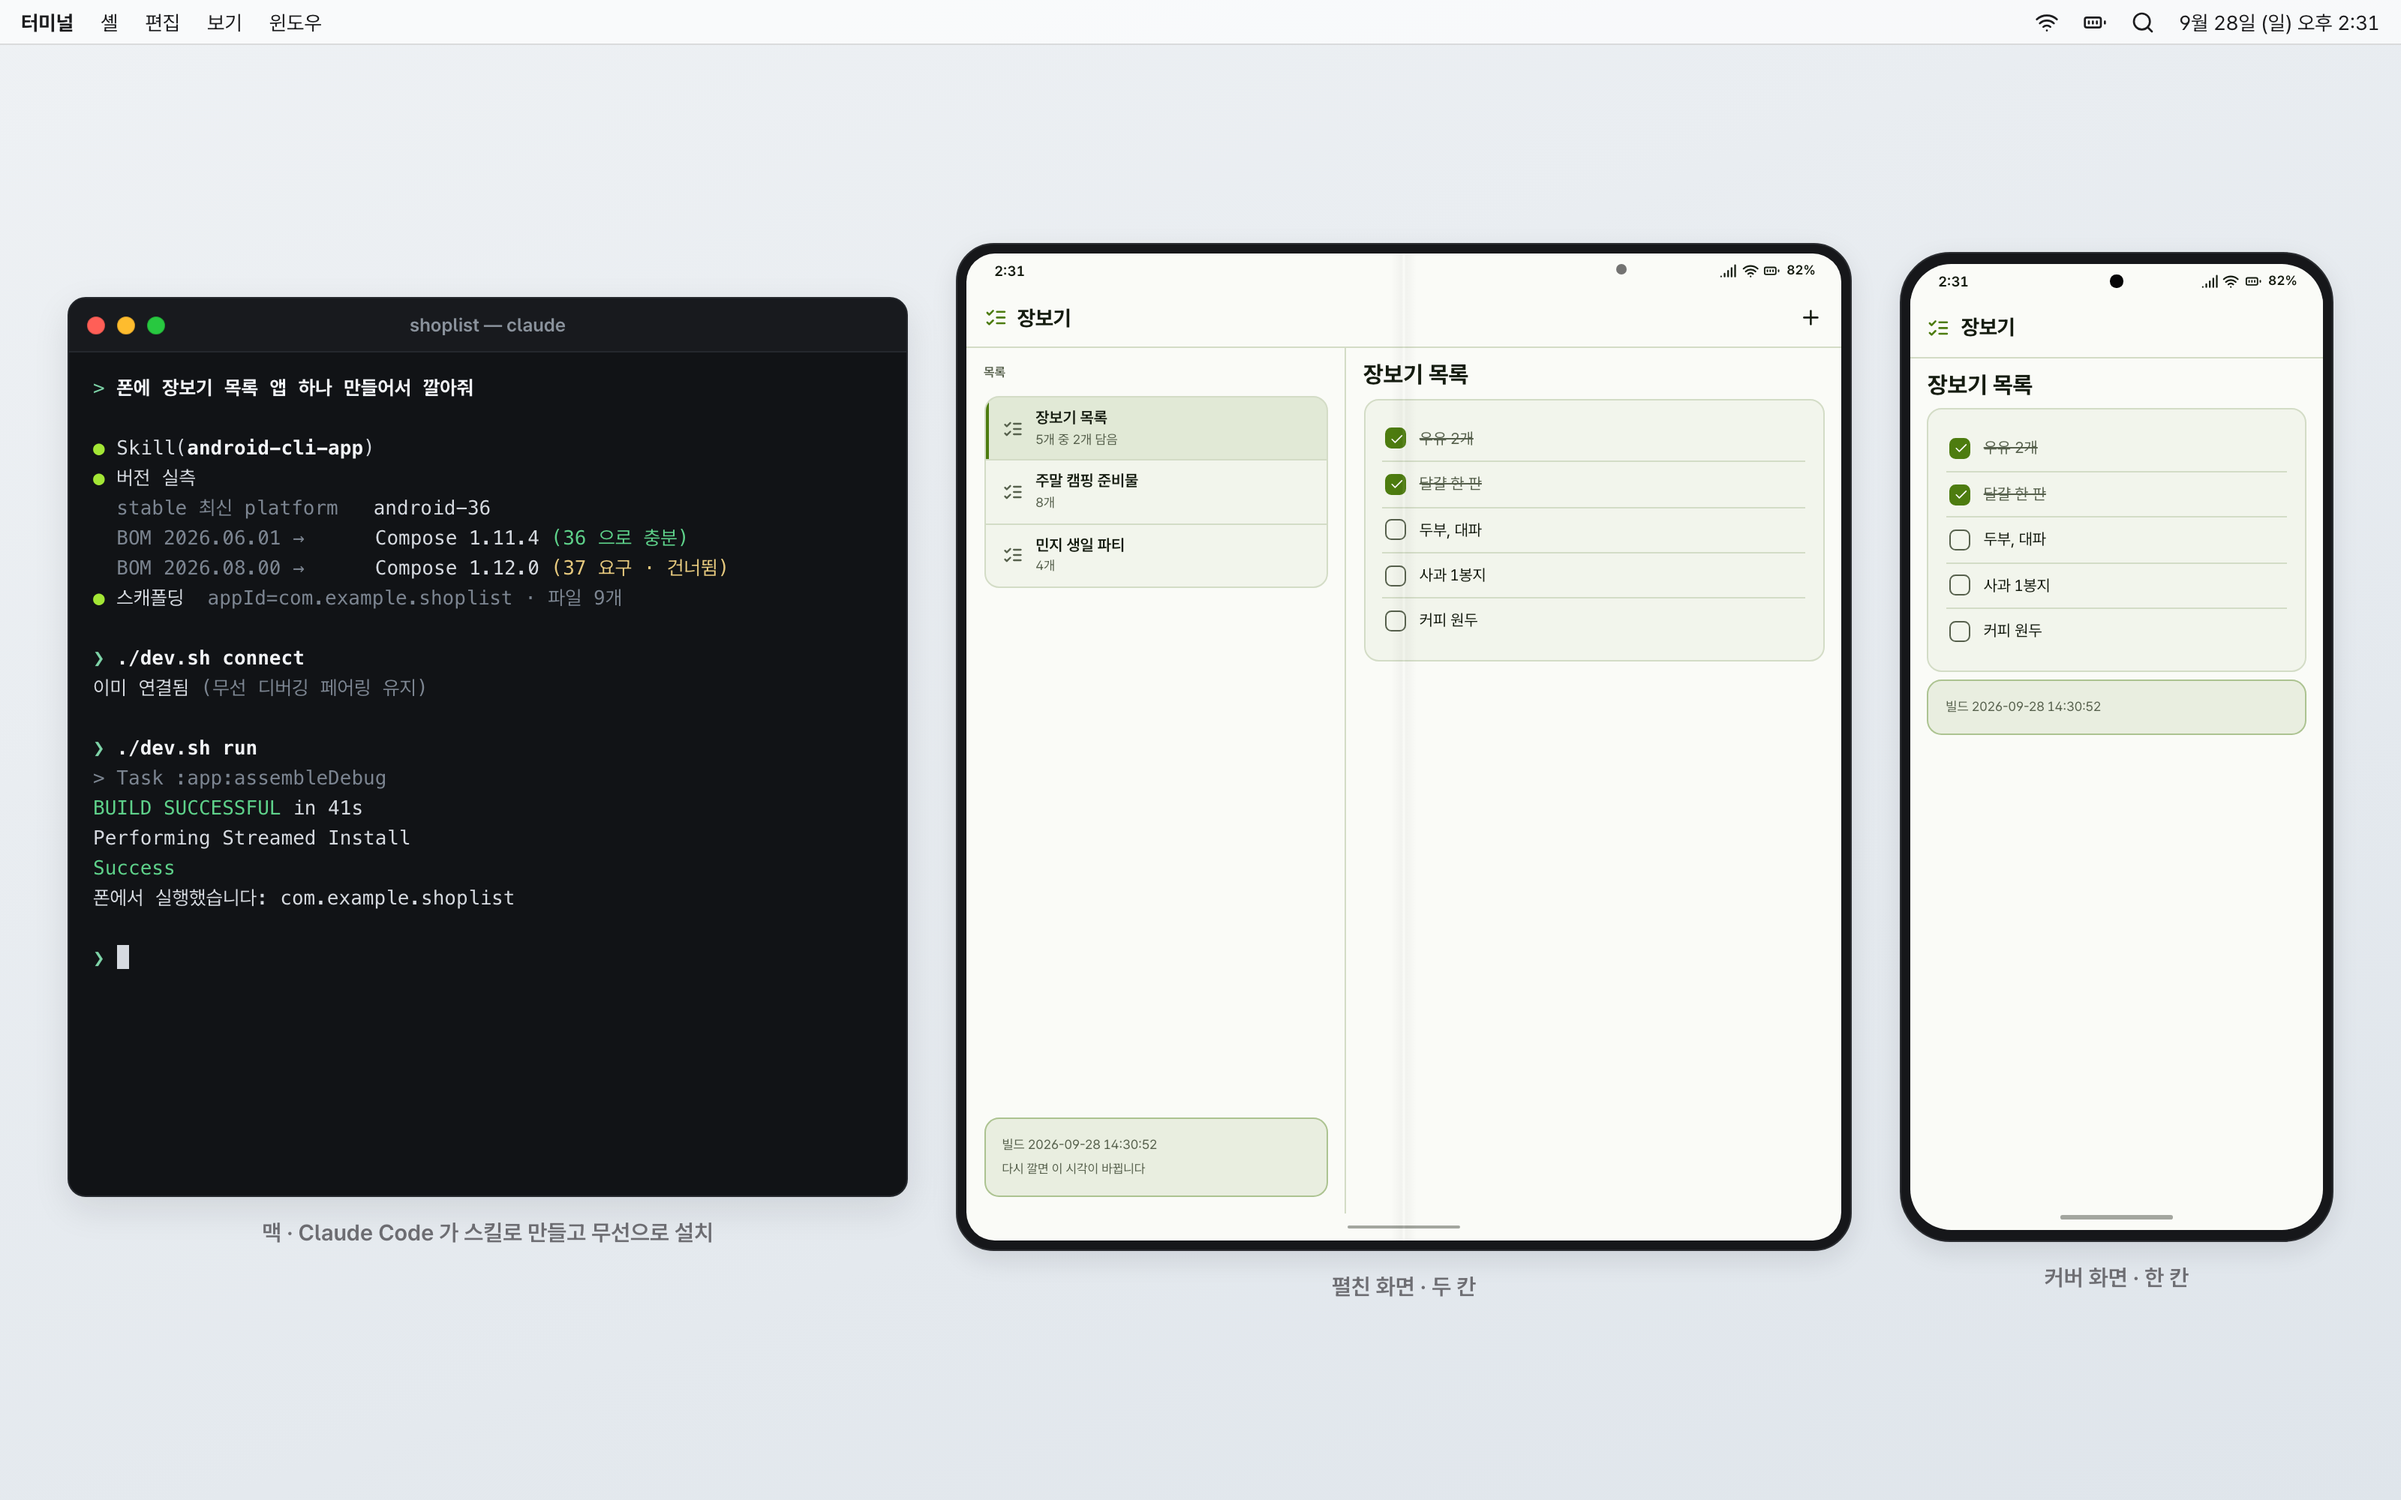
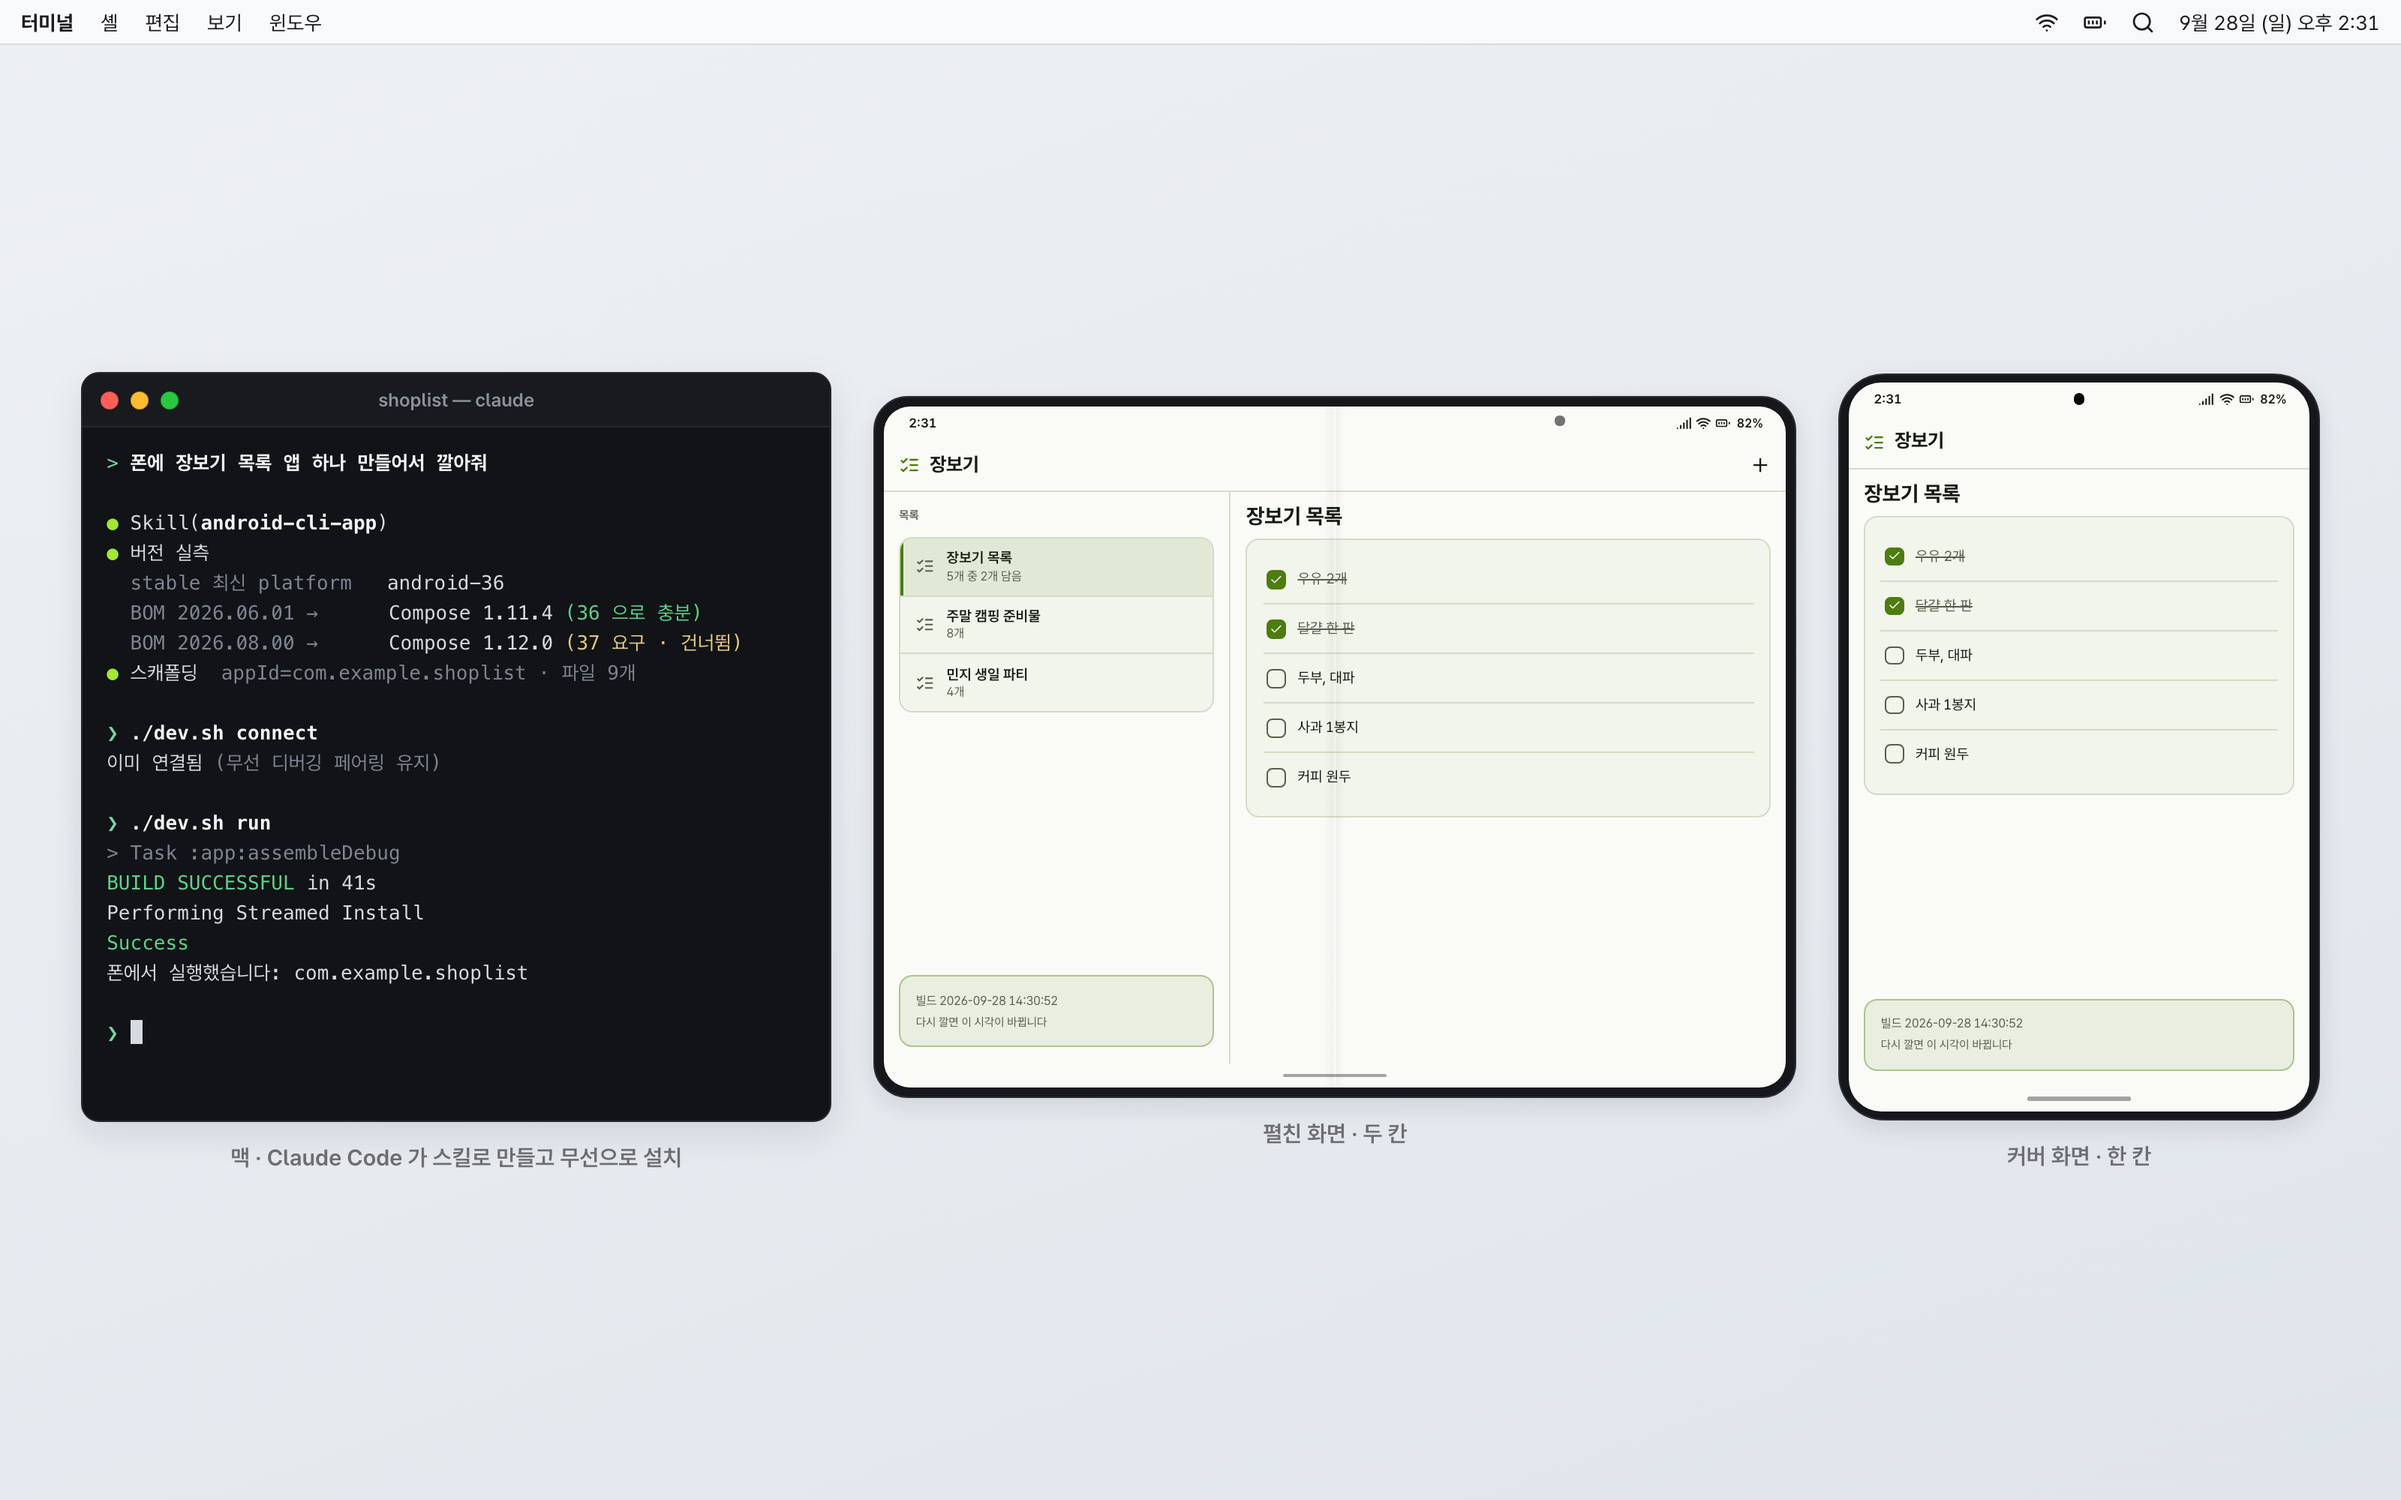
docs: re-render mockups at real Galaxy Z Fold8 ratios

Changed region(s): [[0.0312, 0.155, 0.9688, 0.868]]

diff --git a/docs/mockups/scenes/3-connect-phone.html b/docs/mockups/scenes/3-connect-phone.html
@@ -1,24 +1,24 @@
 <!doctype html>
 <html lang="ko"><head><meta charset="utf-8">
-<meta name="shot" content="w=1297,h=1800,scale=1">
+<meta name="shot" content="w=1137,h=1800,scale=1">
 <title>장면 3 · 폰 커버 화면 — 무선 디버깅 허용</title>
 <link rel="stylesheet" href="https://mockup-kit.invalid/kit.css">
 <script src="https://mockup-kit.invalid/kit.js"></script>
 <style>
-  /* 폴드8 커버 화면 0.72:1 — 360 x 500dp 를 3.6배 */
-  .screen { zoom: 3.6; width: 360px; height: 500px; border-radius: 0; }
+  /* 폴드8 커버 화면 0.63:1 — 400 x 633dp 를 2.8425배 (실기 480 x 758dp 와 같은 비율) */
+  .screen { zoom: 2.8425; width: 400px; height: 633.2px; border-radius: 0; }
   .status-bar { height: 26px; font-size: 13px; padding: 0 18px; }
   .app-bar { height: 50px; gap: 8px; }
   .app-bar .title { font-size: 22px; }
-  .screen > .content { padding: 10px 16px; gap: 10px; }
-  .card.dense { padding: 12px 14px; }
+  .screen > .content { padding: 14px 18px; gap: 12px; }
+  .card.dense { padding: 16px 18px; }
   .toggle-row { min-height: 0; padding: 4px 0; }
-  .label-main { font-size: 18px; line-height: 24px; }
-  .caption { font-size: 15px; line-height: 20px; }
-  .dialog { position: absolute; left: 14px; right: 14px; bottom: 30px; z-index: 50; background: var(--raised); border-radius: 24px; padding: 20px; display: flex; flex-direction: column; gap: 12px; box-shadow: 0 10px 30px rgba(0,0,0,.18); }
-  .dialog .d-title { font-size: 21px; line-height: 28px; font-weight: 700; }
-  .dialog .d-body { font-size: 16px; line-height: 22px; color: var(--dim); }
-  .cb { display: flex; align-items: center; gap: 10px; font-size: 17px; line-height: 23px; }
+  .label-main { font-size: 20px; line-height: 26px; }
+  .caption { font-size: 16px; line-height: 22px; }
+  .dialog { position: absolute; left: 14px; right: 14px; bottom: 34px; z-index: 50; background: var(--raised); border-radius: 24px; padding: 24px; display: flex; flex-direction: column; gap: 14px; box-shadow: 0 10px 30px rgba(0,0,0,.18); }
+  .dialog .d-title { font-size: 23px; line-height: 30px; font-weight: 700; }
+  .dialog .d-body { font-size: 17px; line-height: 24px; color: var(--dim); }
+  .cb { display: flex; align-items: center; gap: 10px; font-size: 18px; line-height: 24px; }
   .cb .box { width: 24px; height: 24px; border-radius: 7px; background: var(--accent); color: var(--on-accent); display: flex; align-items: center; justify-content: center; font-size: 16px; flex: none; }
   .d-actions { display: flex; justify-content: flex-end; gap: 8px; }
   .d-actions .btn { font-size: 18px; height: 44px; padding: 0 20px; }

diff --git a/docs/mockups/hero.html b/docs/mockups/hero.html
@@ -7,10 +7,11 @@
 <link rel="stylesheet" href="https://mockup-kit.invalid/kit.css">
 <script src="https://mockup-kit.invalid/kit.js"></script>
 <style>
-  .layout { position: absolute; top: 30px; left: 0; right: 0; bottom: 0; display: flex; align-items: center; justify-content: center; gap: 32px; }
-  .term-col { width: 560px; }
-  .term-col .terminal { height: 600px; }
-  .check-row { display: flex; align-items: center; gap: 12px; padding: 10px 4px; border-bottom: 1px solid var(--border); font-size: 15px; }
+  .layout { position: absolute; top: 30px; left: 0; right: 0; bottom: 0; display: flex; align-items: center; justify-content: center; gap: 28px; }
+  .term-col { width: 500px; }
+  .term-col .terminal { height: 500px; }
+  .term-col .terminal-body { font-size: 13px; line-height: 20px; }
+  .check-row { display: flex; align-items: center; gap: 12px; padding: 14px 4px; border-bottom: 1px solid var(--border); font-size: 15px; }
   .check-row:last-child { border-bottom: 0; }
   .box { width: 20px; height: 20px; border-radius: 6px; border: 2px solid var(--dim); flex: none; display: flex; align-items: center; justify-content: center; }
   .box.on { background: var(--accent); border-color: var(--accent); color: var(--on-accent); font-size: 14px; }
@@ -63,7 +64,7 @@ Performing Streamed Install
 
     <!-- 폴드 펼침 -->
     <div>
-      <div class="fold-open" style="--zoom:.7">
+      <div class="fold-open" style="--zoom:.64">
         <div class="screen">
           <div class="status-bar" data-time="2:31"></div>
           <div class="app-bar">
@@ -104,7 +105,7 @@ Performing Streamed Install
 
     <!-- 폴드 커버 -->
     <div>
-      <div class="fold-cover" style="--zoom:.7">
+      <div class="fold-cover" style="--zoom:.64">
         <div class="screen">
           <div class="status-bar" data-time="2:31"></div>
           <div class="app-bar">
@@ -120,8 +121,9 @@ Performing Streamed Install
               <div class="check-row"><span class="box"></span><span>사과 1봉지</span></div>
               <div class="check-row"><span class="box"></span><span>커피 원두</span></div>
             </div>
-            <div class="card tint">
+            <div class="card tint build">
               <div class="meta">빌드 2026-09-28 14:30:52</div>
+              <div class="caption">다시 깔면 이 시각이 바뀝니다</div>
             </div>
           </div>
           <div class="nav-handle"></div>

diff --git a/docs/mockups/scenes/2-rebuild-phone.html b/docs/mockups/scenes/2-rebuild-phone.html
@@ -1,26 +1,26 @@
 <!doctype html>
 <html lang="ko"><head><meta charset="utf-8">
-<meta name="shot" content="w=1296,h=1800,scale=1">
+<meta name="shot" content="w=1137,h=1800,scale=1">
 <title>장면 2 · 폰 커버 화면 — 바뀐 빌드 시각</title>
 <link rel="stylesheet" href="https://mockup-kit.invalid/kit.css">
 <script src="https://mockup-kit.invalid/kit.js"></script>
 <style>
-  /* 폴드8 커버 화면 0.72:1 — 360 x 500dp 를 3.6배 */
-  .screen { zoom: 3.6; width: 360px; height: 500px; border-radius: 0; }
+  /* 폴드8 커버 화면 0.63:1 — 400 x 633dp 를 2.8425배 (실기 480 x 758dp 와 같은 비율) */
+  .screen { zoom: 2.8425; width: 400px; height: 633.2px; border-radius: 0; }
   .status-bar { height: 26px; font-size: 13px; padding: 0 18px; }
   .app-bar { height: 50px; gap: 10px; }
   .app-bar .title { font-size: 22px; }
-  .screen > .content { padding: 10px 16px 10px; gap: 12px; }
-  .t-hero { font-size: 24px; line-height: 30px; }
+  .screen > .content { padding: 16px 18px 14px; gap: 16px; }
+  .t-hero { font-size: 28px; line-height: 34px; }
   .card.list { padding: 4px 14px; gap: 0; }
-  .check-row { display: flex; align-items: center; gap: 12px; padding: 10px 2px; border-bottom: 1px solid var(--border); font-size: 21px; line-height: 27px; }
+  .check-row { display: flex; align-items: center; gap: 12px; padding: 16px 2px; border-bottom: 1px solid var(--border); font-size: 23px; line-height: 29px; }
   .check-row:last-child { border-bottom: 0; }
   .box { width: 24px; height: 24px; border-radius: 7px; border: 2px solid var(--dim); flex: none; display: flex; align-items: center; justify-content: center; }
   .box.on { background: var(--accent); border-color: var(--accent); color: var(--on-accent); font-size: 16px; }
   .done { color: var(--dim); text-decoration: line-through; }
-  .build { margin-top: auto; padding: 12px 14px; gap: 2px; }
-  .build .b { font-size: 22px; line-height: 28px; font-weight: 700; color: var(--accent); }
-  .build .s { font-size: 15px; line-height: 20px; color: var(--dim); }
+  .build { margin-top: auto; padding: 16px 18px; gap: 4px; }
+  .build .b { font-size: 26px; line-height: 32px; font-weight: 700; color: var(--accent); }
+  .build .s { font-size: 17px; line-height: 23px; color: var(--dim); }
   .nav-handle { height: 16px; }
 </style></head><body>
 <div class="screen app-cyberdeck">

diff --git a/docs/mockups/thumbnail.html b/docs/mockups/thumbnail.html
@@ -7,15 +7,19 @@
 <link rel="stylesheet" href="https://mockup-kit.invalid/kit.css">
 <script src="https://mockup-kit.invalid/kit.js"></script>
 <style>
-  .layout { position: absolute; inset: 0; display: flex; align-items: center; justify-content: center; gap: 64px; }
+  .layout { position: absolute; inset: 0; display: flex; align-items: center; justify-content: center; gap: 72px; }
   .copy { width: 620px; display: flex; flex-direction: column; gap: 18px; }
   .big { font-size: 56px; line-height: 66px; font-weight: 800; letter-spacing: -1.2px; color: var(--mac-text); }
   .big em { font-style: normal; color: var(--accent); }
   .sub { font-size: 22px; line-height: 32px; color: var(--mac-dim); }
   .copy .terminal { height: 150px; margin-top: 10px; }
   .copy .terminal-body { font-size: 15px; line-height: 23px; }
-  .hello { display: flex; flex-direction: column; gap: 12px; }
-  .hello .t-hero { font-size: 26px; line-height: 32px; }
+  .fold-cover .content { justify-content: center; gap: 14px; padding: 16px 20px 28px; }
+  .hello { display: flex; flex-direction: column; gap: 14px; padding: 32px 28px; }
+  .hello .t-hero { font-size: 44px; line-height: 52px; }
+  .hello .body { font-size: 19px; line-height: 28px; }
+  .hello .meta { font-size: 15px; }
+  .adb .card-title { font-size: 17px; } .adb .meta { font-size: 14px; }
 </style>
 </head>
 <body>
@@ -31,7 +35,7 @@
 폰에서 실행했습니다: com.example.hello</div>
       </div>
     </div>
-    <div class="fold-cover" style="--zoom:.8">
+    <div class="fold-cover" style="--zoom:.86">
       <div class="screen">
         <div class="status-bar" data-time="2:31"></div>
         <div class="app-bar">
@@ -44,7 +48,7 @@
             <div class="body">케이블 없이 설치됐습니다</div>
             <div class="meta">빌드 2026-09-28 14:30:52</div>
           </div>
-          <div class="card tint">
+          <div class="card tint adb">
             <div class="card-row"><span class="ico"><i data-icon="wifi"></i></span><div class="grow"><div class="card-title">무선 adb</div><div class="meta">다시 빌드하면 그대로 갱신</div></div></div>
           </div>
         </div>

diff --git a/docs/mockups/scenes/2-rebuild-mac.html b/docs/mockups/scenes/2-rebuild-mac.html
@@ -1,16 +1,16 @@
 <!doctype html>
 <html lang="ko"><head><meta charset="utf-8">
-<meta name="shot" content="w=1800,h=1296,scale=1">
+<meta name="shot" content="w=1800,h=1454,scale=1">
 <title>장면 2 · 맥 화면 일부 — 고친 뒤 다시 설치</title>
 <link rel="stylesheet" href="https://mockup-kit.invalid/kit.css">
 <script src="https://mockup-kit.invalid/kit.js"></script>
 <style>
   body { background: #000; }
-  /* 클로즈업: 맥 화면 중 터미널 창 부분만 (1.39:1) */
-  .desk { zoom: 2.25; width: 800px; height: 576px; position: relative; overflow: hidden;
+  /* 클로즈업: 맥 화면 중 터미널 창 부분만 (1.24:1) */
+  .desk { zoom: 2.25; width: 800px; height: 646.2px; position: relative; overflow: hidden;
     background: radial-gradient(120% 90% at 20% 10%, #E6DCCB 0%, #B7A58B 50%, #6E6153 100%); }
   .mac-menubar { font-size: 14px; }
-  .terminal { position: absolute; left: 24px; top: 44px; width: 752px; height: 510px; }
+  .terminal { position: absolute; left: 24px; top: 44px; width: 752px; height: 580px; }
   .terminal-bar .t-title { font-size: 13px; }
   .terminal-body { font-size: 20px; line-height: 30px; padding: 16px 22px; }
 </style></head><body>
